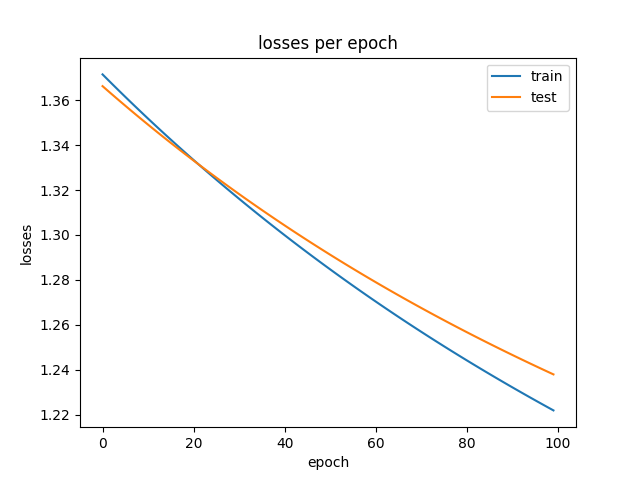
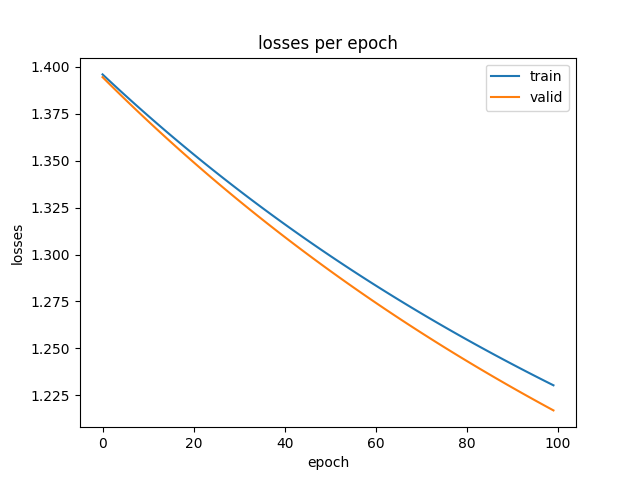
add 75

diff --git a/ch08/75/75.py b/ch08/75/75.py
@@ -19,7 +19,7 @@ def calc_acc(y_pred_prob, y_true) -> float:
 
 def make_graph(value_dict: dict, value_name: str) -> None:
     '''value_dictに関するgraphを生成し、保存する。'''
-    for phase in ['train','test']:
+    for phase in ['train','valid']:
         plt.plot(value_dict[phase],label=phase)
     plt.xlabel('epoch')
     plt.ylabel(value_name)
@@ -41,14 +41,14 @@ if __name__ == "__main__":
         np.load('../70/train_label.npy')
         )
 
-    # 評価データの読み込み
-    test_x = torch.tensor(
-        np.load('../70/test_vector.npy'),
+    # 検証データの読み込み
+    valid_x = torch.tensor(
+        np.load('../70/valid_vector.npy'),
         requires_grad=True
         )
 
-    test_y = torch.tensor(
-        np.load('../70/test_label.npy')
+    valid_y = torch.tensor(
+        np.load('../70/valid_label.npy')
         )
 
     # modelの設定
@@ -60,8 +60,8 @@ if __name__ == "__main__":
 
     train_losses = []
     train_accs = []
-    test_losses = []
-    test_accs = []
+    valid_losses = []
+    valid_accs = []
 
     # parameterの更新    
     for step in range(100):
@@ -84,27 +84,27 @@ if __name__ == "__main__":
         train_accs.append(train_acc)
         
         # 検証データに対する予測
-        test_y_pred_prob = net(test_x)
+        valid_y_pred_prob = net(valid_x)
 
         # 検証データの損失の計算
-        test_loss = loss(test_y_pred_prob, test_y)
+        valid_loss = loss(valid_y_pred_prob, valid_y)
         # 検証データでの損失の保存
-        test_losses.append(test_loss.data)
+        valid_losses.append(valid_loss.data)
 
         # 検証データでの正解率の計算
-        test_acc = calc_acc(test_y_pred_prob, test_y)
+        valid_acc = calc_acc(valid_y_pred_prob, valid_y)
         # 検証データでの正解率の保存
-        test_accs.append(test_acc)
+        valid_accs.append(valid_acc)
 
     # グラフへのプロット
     losses = {
         'train': train_losses,
-        'test': test_losses
+        'valid': valid_losses
         }
 
     accs = {
         'train': train_accs,
-        'test': test_accs
+        'valid': valid_accs
     }
 
     make_graph(losses, 'losses')
